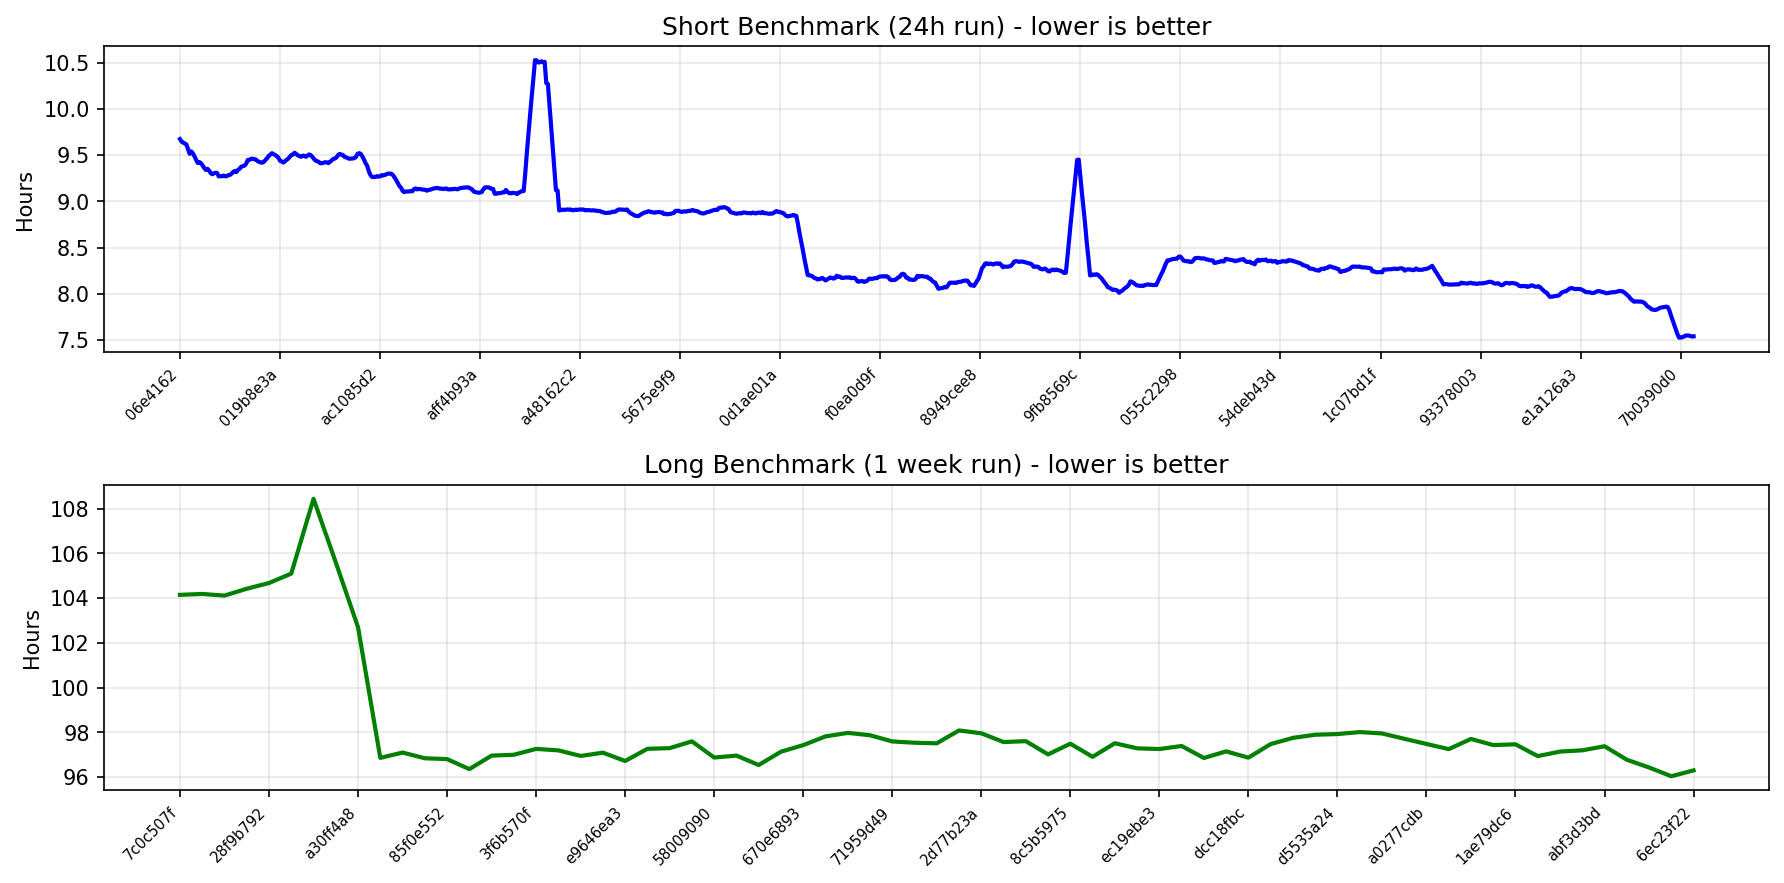
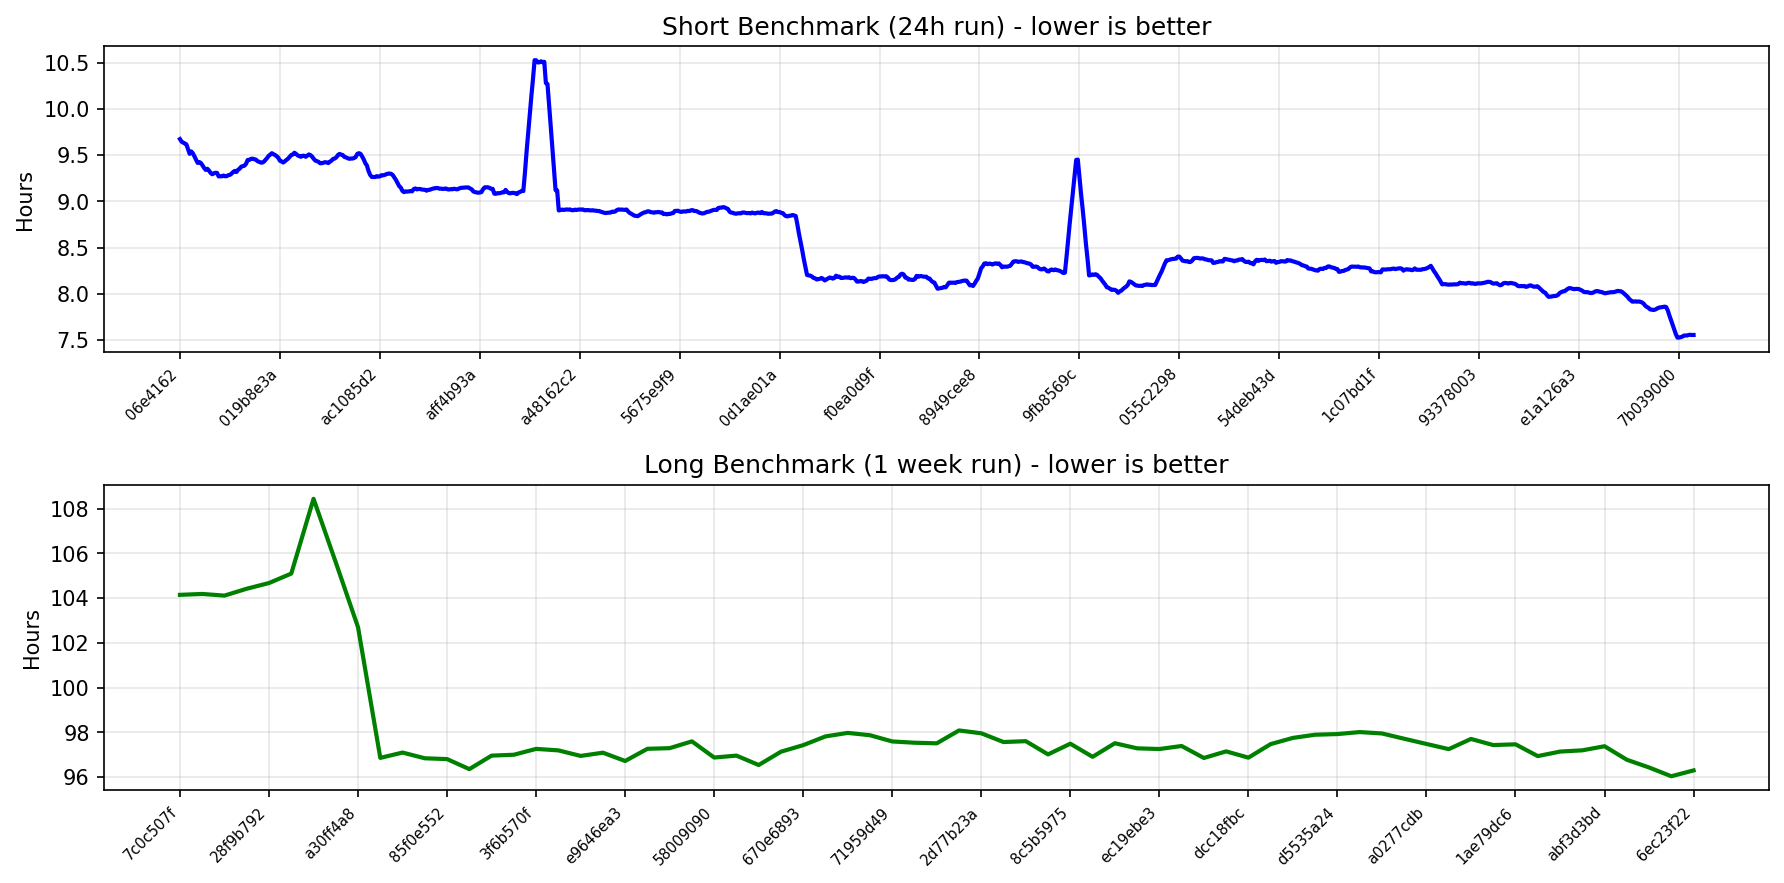
chore: update short benchmark Readme

diff --git a/README.md b/README.md
@@ -12,11 +12,11 @@ This repository contains various eth1 import benchmark metrics.
 
 | Generated At | Baseline SHA | Contender SHA | Baseline Time | Contender Time | Time Delta |
 |--------------|--------------|---------------|---------------|----------------|------------|
+| 2026-09-04 11:38:25 | [868cbb2a](https://github.com/status-im/nimbus-eth1/commit/868cbb2a) | [4e225c61](https://github.com/status-im/nimbus-eth1/commit/4e225c61) | 7h31m15s | 7h35m59s | 4m43s, 1.05% |
 | 2026-09-04 03:55:58 | [7365dc1d](https://github.com/status-im/nimbus-eth1/commit/7365dc1d) | [868cbb2a](https://github.com/status-im/nimbus-eth1/commit/868cbb2a) | 7h32m57s | 7h31m15s | -1m41s, -0.37% |
 | 2026-09-03 20:12:05 | [e3c7ae3d](https://github.com/status-im/nimbus-eth1/commit/e3c7ae3d) | [7365dc1d](https://github.com/status-im/nimbus-eth1/commit/7365dc1d) | 7h33m2s | 7h32m57s | -4s, -0.02% |
 | 2026-09-03 12:27:38 | [b7437246](https://github.com/status-im/nimbus-eth1/commit/b7437246) | [e3c7ae3d](https://github.com/status-im/nimbus-eth1/commit/e3c7ae3d) | 7h32m41s | 7h33m2s | 20s, 0.08% |
 | 2026-09-03 04:40:32 | [d187f1a2](https://github.com/status-im/nimbus-eth1/commit/d187f1a2) | [b7437246](https://github.com/status-im/nimbus-eth1/commit/b7437246) | 7h32m11s | 7h32m41s | 29s, 0.11% |
-| 2026-09-02 13:05:52 | [0c23c5f4](https://github.com/status-im/nimbus-eth1/commit/0c23c5f4) | [d187f1a2](https://github.com/status-im/nimbus-eth1/commit/d187f1a2) | 7h35m29s | 7h32m11s | -3m17s, -0.72% |
 
 ## Latest 5 Long Benchmarks (1 Week Run)
 
@@ -36,6 +36,7 @@ All commits with performance changes greater than 1%, sorted chronologically (mo
 
 | Generated At | Baseline SHA | Contender SHA | Baseline Time | Contender Time | Time Delta |
 |--------------|--------------|---------------|---------------|----------------|------------|
+| 2026-09-04 11:38:25 | [868cbb2a](https://github.com/status-im/nimbus-eth1/commit/868cbb2a) | [4e225c61](https://github.com/status-im/nimbus-eth1/commit/4e225c61) | 7h31m15s | 7h35m59s | 4m43s, 1.05% |
 | 2026-08-30 22:50:45 | [eb14e37c](https://github.com/status-im/nimbus-eth1/commit/eb14e37c) | [ac06dbf4](https://github.com/status-im/nimbus-eth1/commit/ac06dbf4) | 7h49m16s | 7h35m0s | -14m15s, -3.04% |
 | 2026-08-22 18:48:40 | [8d3b8eea](https://github.com/status-im/nimbus-eth1/commit/8d3b8eea) | [1ec00066](https://github.com/status-im/nimbus-eth1/commit/1ec00066) | 97h36m50s | 95h39m8s | -1h57m41s, -2.01% |
 | 2026-08-21 11:32:33 | [6648ce1b](https://github.com/status-im/nimbus-eth1/commit/6648ce1b) | [cde53ac2](https://github.com/status-im/nimbus-eth1/commit/cde53ac2) | 8h1m47s | 7h55m44s | -6m3s, -1.26% |
